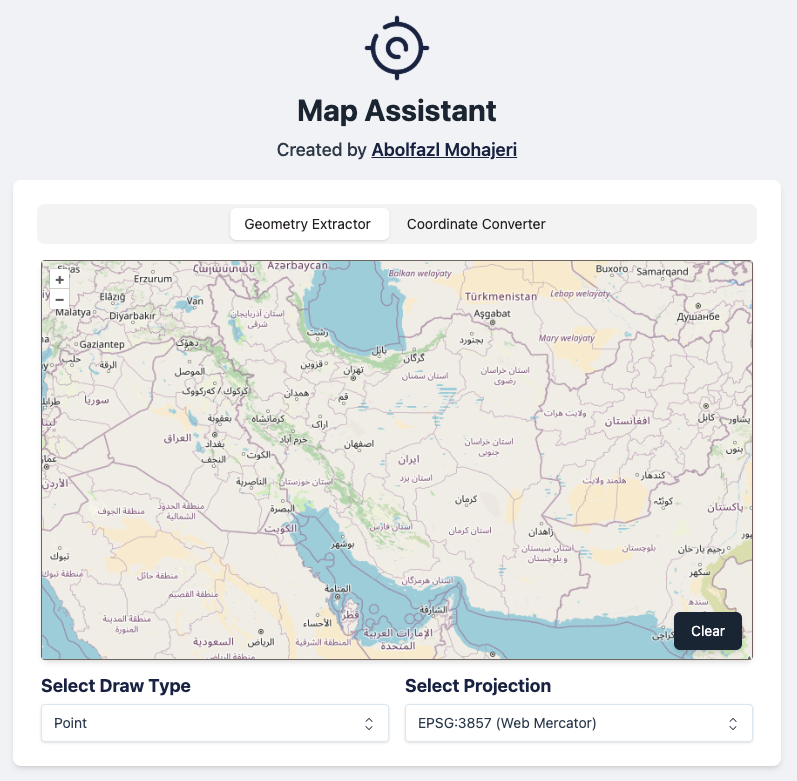
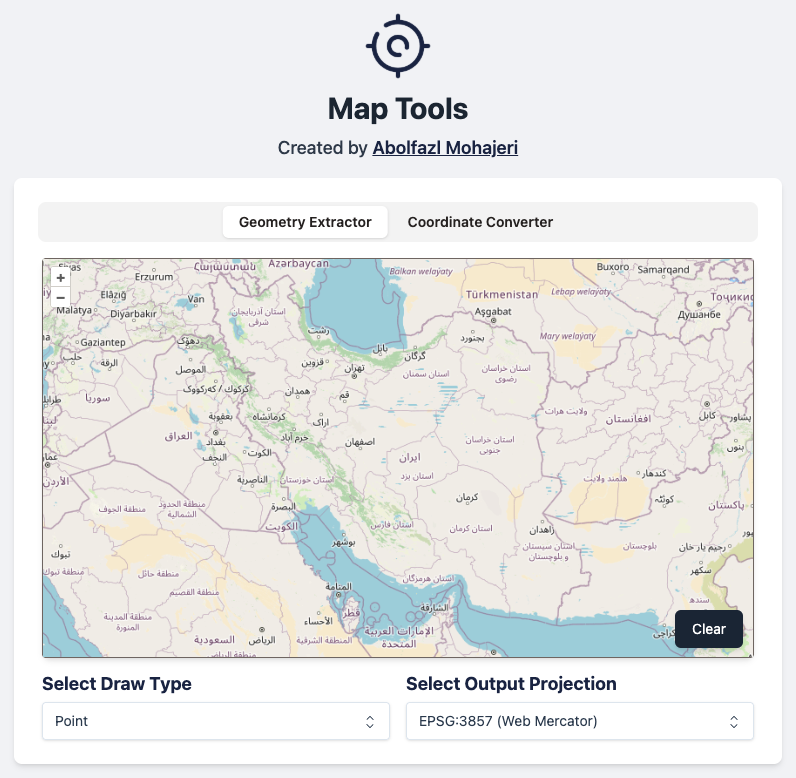
fix: change name of project

diff --git a/index.html b/index.html
@@ -4,10 +4,10 @@
     <meta charset="utf-8">
     <meta name="viewport" content="width=device-width, initial-scale=1">
 
-    <title> Map Assistant </title>
-    <meta name="title" content="Map Assistant">
+    <title> Map Tools </title>
+    <meta name="title" content="Map Tools">
     <meta name="description" content="Online assistant for map">
-    <meta name="keywords" content="x y converter, lat lng converter, coordinate converter, map, map assistant">
+    <meta name="keywords" content="x y converter, lat lng converter, coordinate converter, map, map tools, map assistant">
 
     <link rel="icon" type="image/png" href="images/logo.png">
 
@@ -23,7 +23,7 @@
         <div class="flex justify-center mb-2">
             <img src="images/logo.png" alt="Logo" class="h-18">
         </div>
-        <h1 class="text-3xl font-bold text-center mb-2"> Map Assistant </h1>
+        <h1 class="text-3xl font-bold text-center mb-2"> Map Tools </h1>
         <p class="lead mb-4 text-center text-lg font-medium text-gray-700">
             Created by <a href="https://abolfazlmohajeri.ir" target="_blank"
                           class="text-[#1C274C] hover:text-[#1A2035] font-semibold underline"> Abolfazl Mohajeri </a>

diff --git a/README.md b/README.md
@@ -1,6 +1,6 @@
-# Map Assistant
+# Map Tools
 
-Map Assistant is an online tool to assist with map-related tasks like geometry drawing and coordinate converter. It supports multiple projections and provides an interactive experience for users to visualize and manipulate geographical data.
+Map Tools is an online tool to assist with map-related tasks like geometry drawing and coordinate converter. It supports multiple projections and provides an interactive experience for users to visualize and manipulate geographical data.
 
 ![Screenshot](images/screenshot.png)
 
